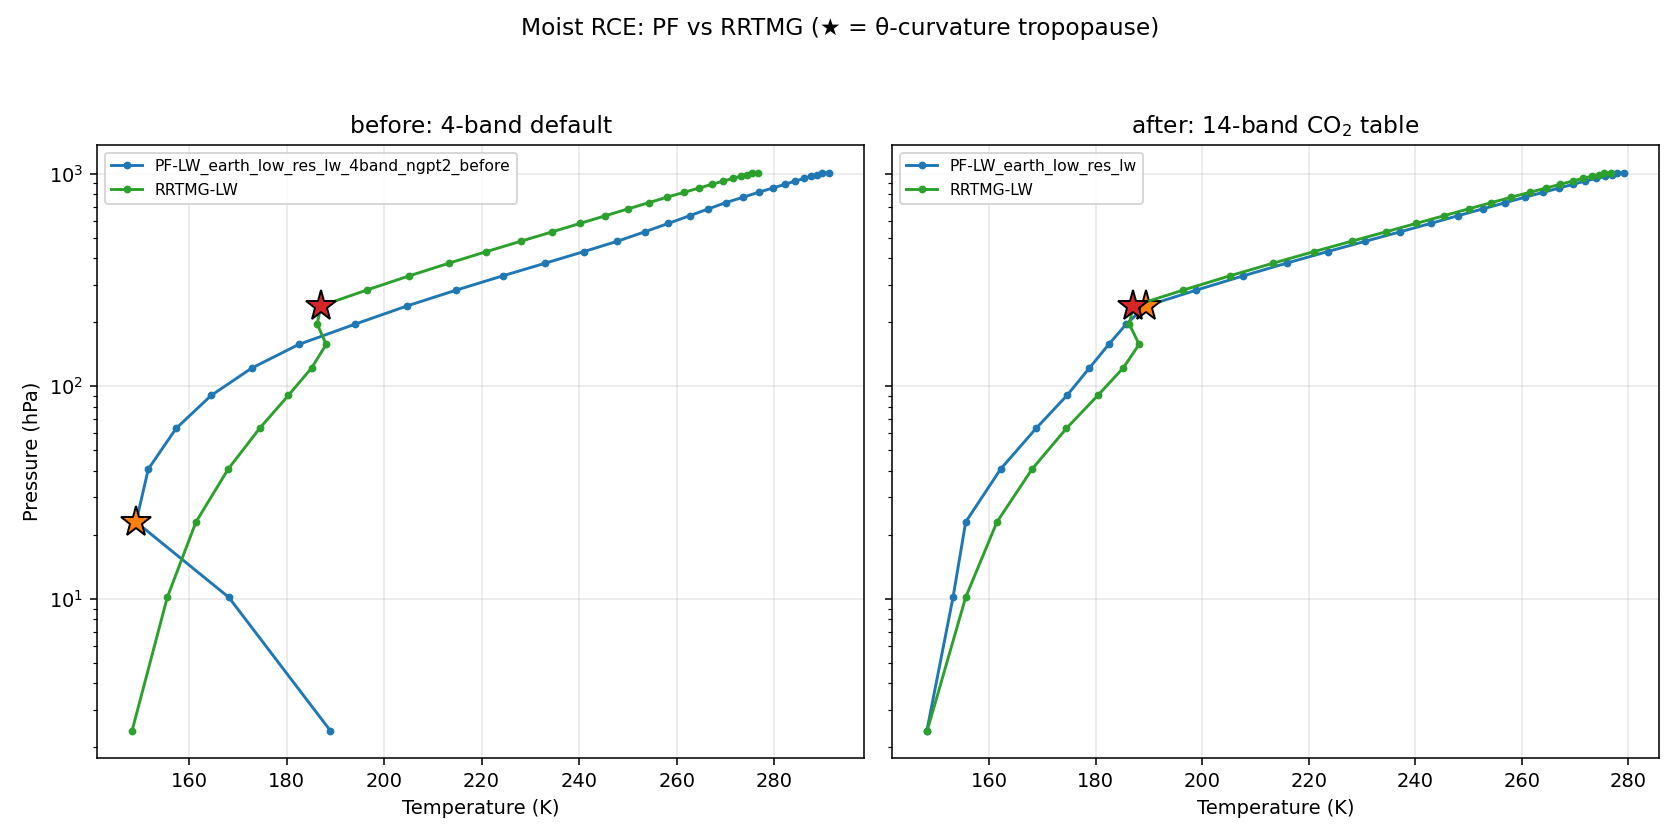
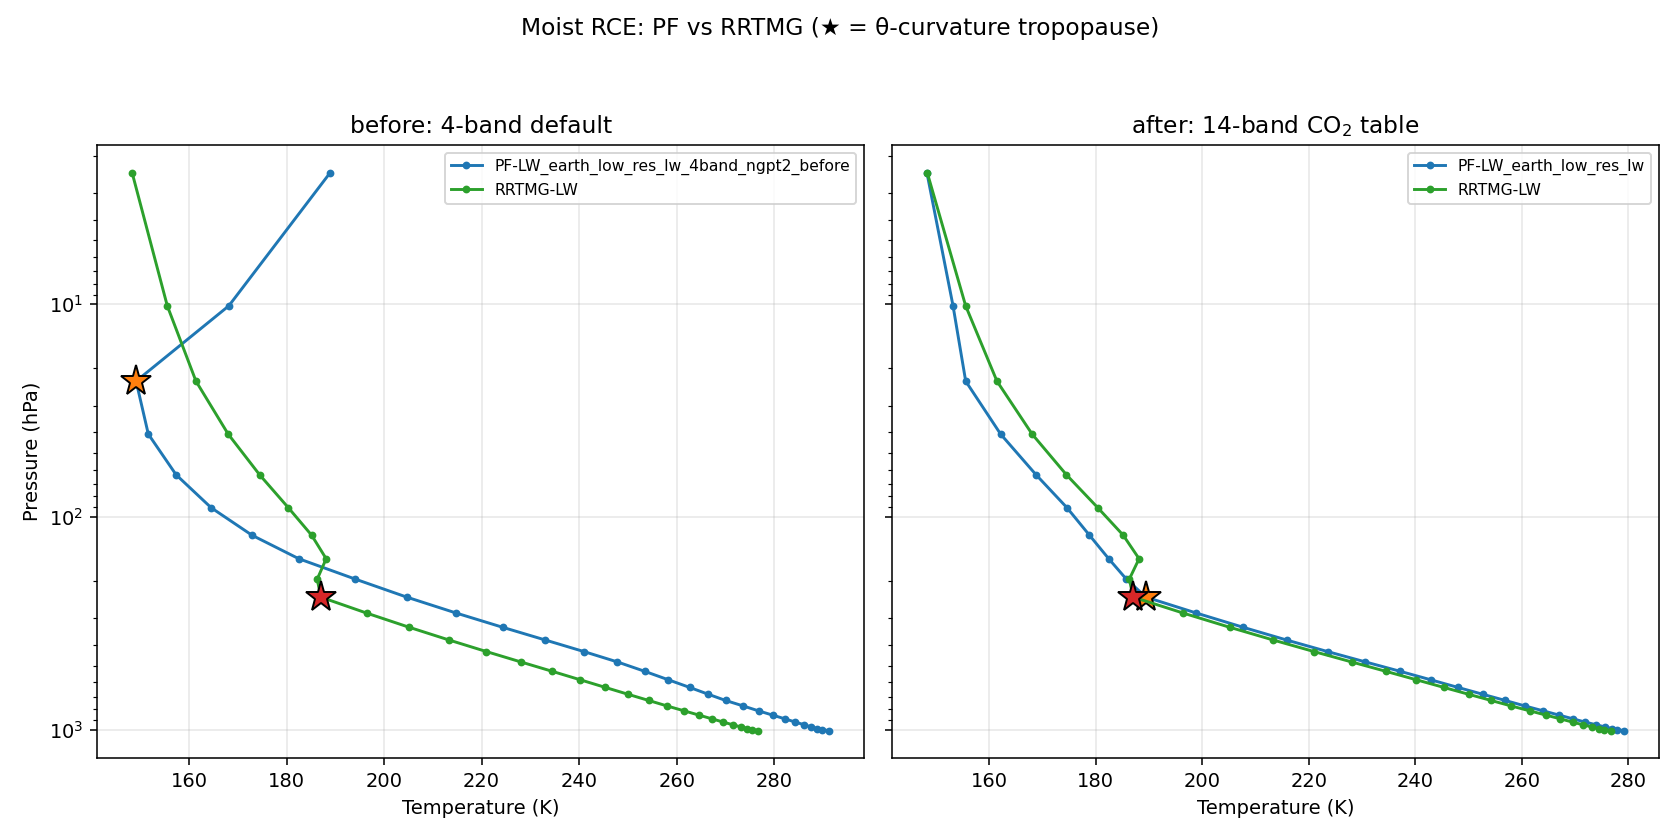
fix(pf): invert RCE figure y-axis once (sharey double-invert bug)
Pressure axis was upside-down (1000 hPa at top): invert_yaxis() was called
per-subplot inside the loop, but sharey=True meant the second call undid the
first. Invert once after the loop. Regenerated the figure artifacts.

diff --git a/scripts/experiments/make_subproject_B_figures.py b/scripts/experiments/make_subproject_B_figures.py
@@ -74,9 +74,12 @@ def fig_rce(out, before_npz, after_npz):
             tp = find_tropopause(s["T"], s["p_hpa"])
             ax.plot(np.interp(tp["p_curvature"], s["p_hpa"][::-1], s["T"][::-1]),
                     tp["p_curvature"], "*", ms=16, mec="k")
-        ax.set_yscale("log"); ax.invert_yaxis(); ax.grid(alpha=0.3)
+        ax.set_yscale("log"); ax.grid(alpha=0.3)
         ax.set_title(title); ax.set_xlabel("Temperature (K)")
         ax.legend(fontsize=8)
+    # Invert ONCE: the axes share y (sharey=True), so a single invert flips both.
+    # Inverting per-axis in the loop would double-invert back to upright.
+    axes[0].invert_yaxis()
     axes[0].set_ylabel("Pressure (hPa)")
     fig.suptitle("Moist RCE: PF vs RRTMG (★ = θ-curvature tropopause)")
     fig.tight_layout(rect=[0, 0, 1, 0.94])
